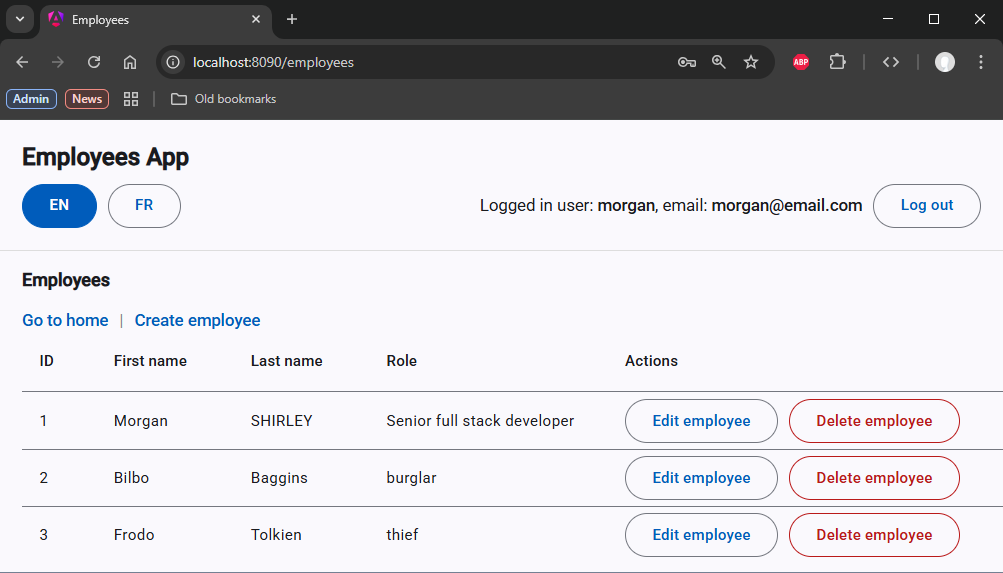
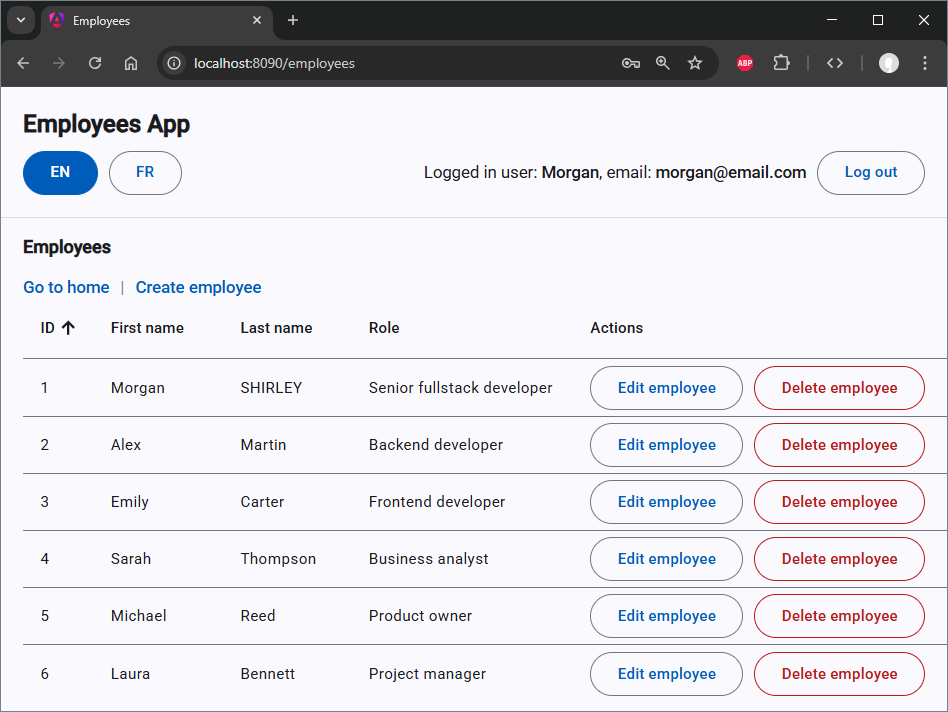
improvements to README.md

diff --git a/sb-backend/src/main/java/com/morgan/backend/config/AppConfig.java b/sb-backend/src/main/java/com/morgan/backend/config/AppConfig.java
@@ -25,9 +25,12 @@ public class AppConfig {
                                           PasswordEncoder passwordEncoder) {
         return args -> {
             if (employeeRepository.count() == 0) {
-                employeeRepository.save(new Employee("Morgan", "SHIRLEY", "Senior full stack developer"));
-                employeeRepository.save(new Employee("Bilbo", "Baggins", "burglar"));
-                employeeRepository.save(new Employee("Frodo", "Tolkien", "thief"));
+                employeeRepository.save(new Employee("Morgan", "SHIRLEY", "Senior fullstack developer"));
+                employeeRepository.save(new Employee("Alex", "Martin", "Backend developer"));
+                employeeRepository.save(new Employee("Emily", "Carter", "Frontend developer"));
+                employeeRepository.save(new Employee("Sarah", "Thompson", "Business analyst"));
+                employeeRepository.save(new Employee("Michael", "Reed", "Product owner"));
+                employeeRepository.save(new Employee("Laura", "Bennett", "Project manager"));
                 employeeRepository.findAll()
                     .forEach(employee -> log.info("Preloaded employee {}", employee));
             }
@@ -35,11 +38,11 @@ public class AppConfig {
             if (userAccountRepository.count() == 0) {
                 String rawPassword1 = "pwd1"; // for demo only
                 String hash1 = passwordEncoder.encode(rawPassword1);
-                UserAccount user1 = new UserAccount("morgan", "morgan@email.com", hash1);
+                UserAccount user1 = new UserAccount("Morgan", "morgan@email.com", hash1);
 
                 String rawPassword2 = "pwd2"; // for demo only
                 String hash2 = passwordEncoder.encode(rawPassword2);
-                UserAccount user2 = new UserAccount("mark", "mark@email.com", hash2);
+                UserAccount user2 = new UserAccount("Mark", "mark@email.com", hash2);
 
                 userAccountRepository.saveAll(List.of(user1, user2));
             }

diff --git a/README.md b/README.md
@@ -27,9 +27,19 @@ It demonstrates real-world security concerns, including:
 - CSRF / XSRF protection
 - CORS vs proxy-based setups between an Angular frontend and a Spring Boot backend
 
-The emphasis is on **clarity, correctness, and modern best practices**, with sensible defaults and configuration files that include **only what is strictly required** for the application to run correctly.  
+The emphasis is on **clarity, correctness, and modern best practices**, with sensible defaults and configuration files that include **only what is strictly required** for the application to run correctly.
 
-In particular, the POM files, `.gitignore`, and `.editorconfig` are intentionally kept **minimal and explicit**.  
+In particular, the POM files, 
+[.gitignore](./.gitignore), 
+[.editorconfig](./.editorconfig), 
+[application.yml](./sb-backend/src/main/resources/application.yml), 
+[application-postgres.yml](./sb-backend/src/main/resources/application-postgres.yml), 
+[angular.json](./angular-frontend/employees-ui/angular.json), 
+[tsconfig.json](./angular-frontend/employees-ui/tsconfig.json), 
+[app.config.ts](./angular-frontend/employees-ui/src/app/app.config.ts), 
+[styles.scss](./angular-frontend/employees-ui/src/styles.scss) 
+are intentionally kept **minimal and explicit**.  
+In other words, there is no dead code.  
 
 ## ℹ Project Information
 
